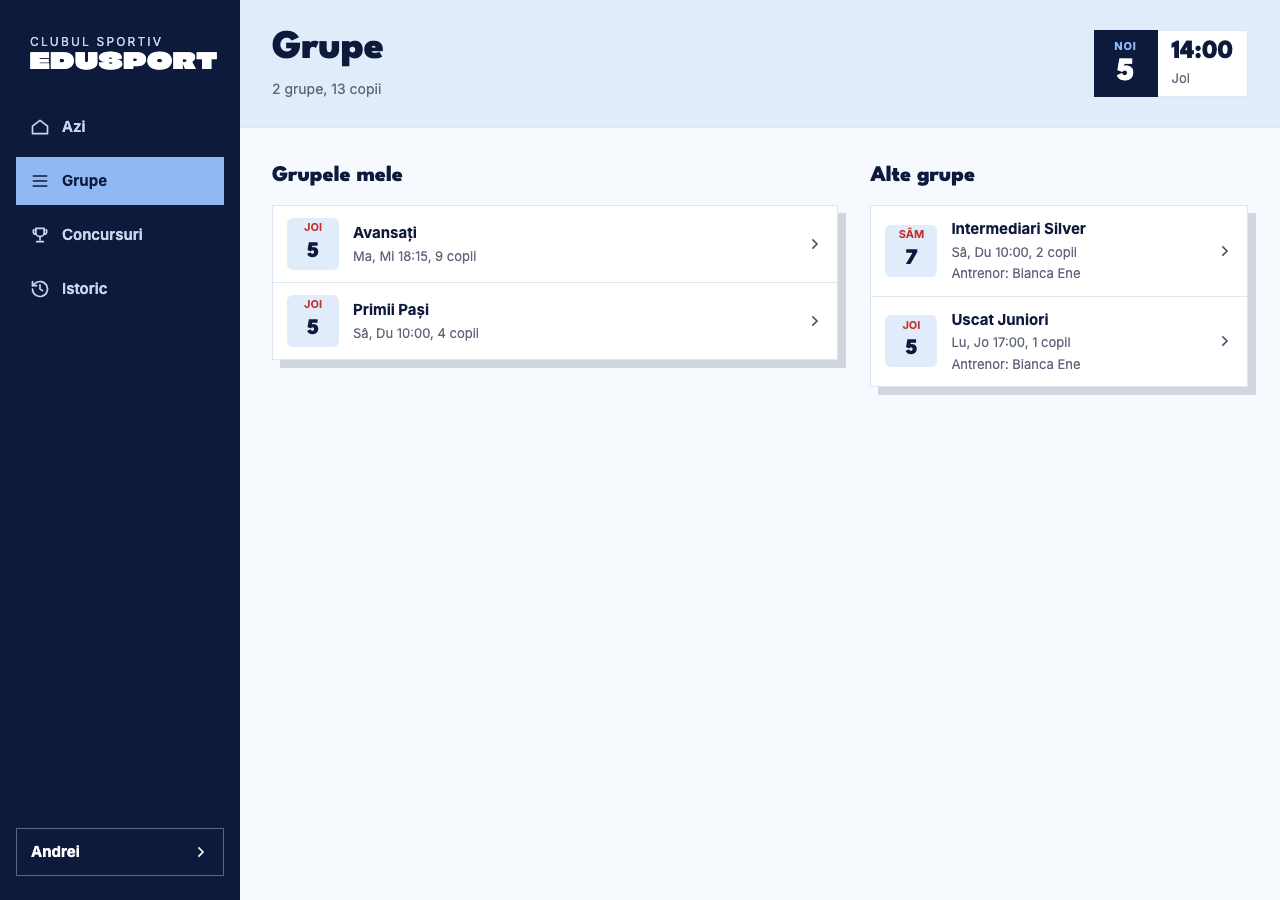
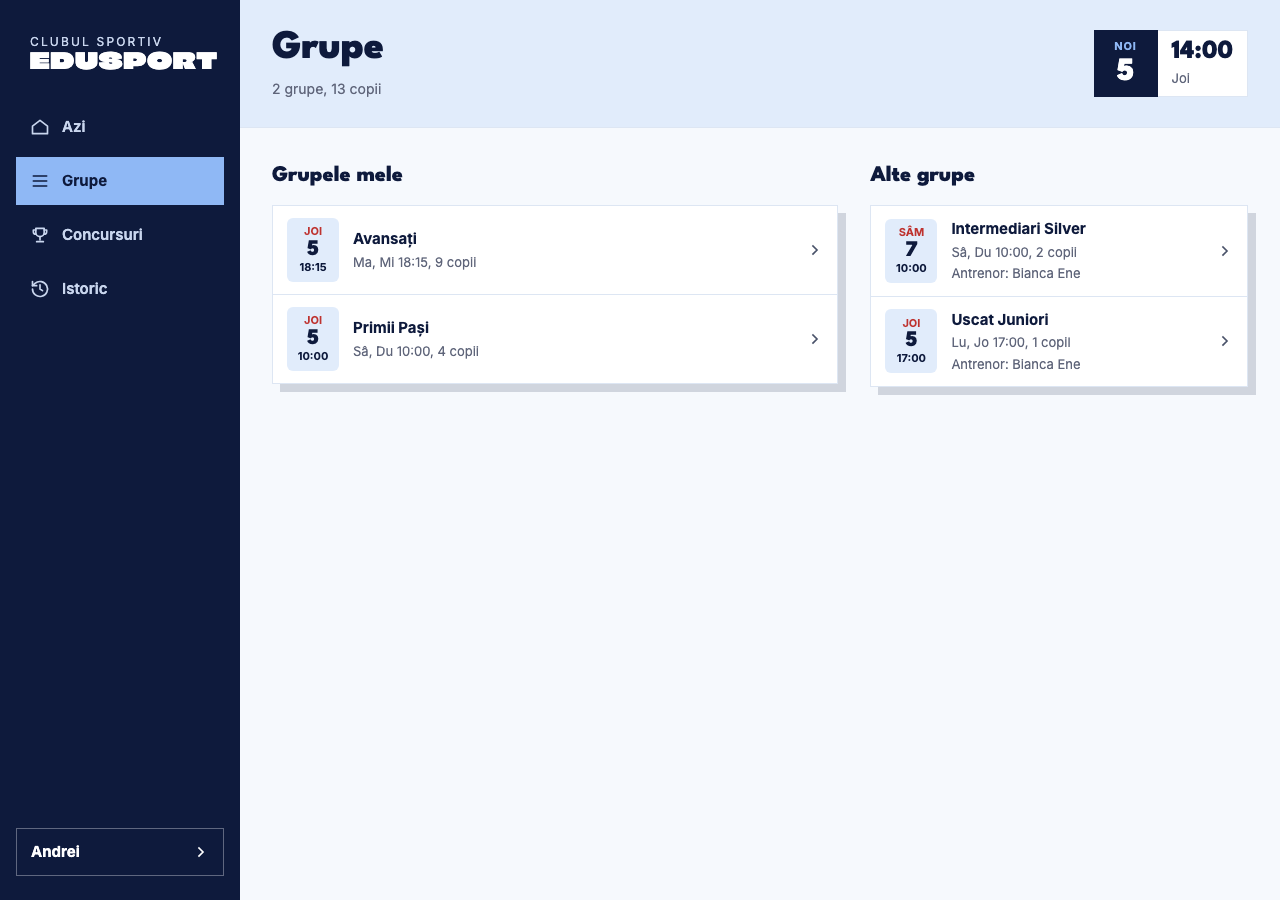
Portal: one date square (weekday, day, hour) in every list, option B

Changed region(s): [[0.2188, 0.2489, 0.7188, 0.4356], [0.6875, 0.2178, 0.7188, 0.3111]]

diff --git a/docs/portal/mockups/screens/coach-canvas-v1/AntrenorPatratB.dc.html b/docs/portal/mockups/screens/coach-canvas-v1/AntrenorPatratB.dc.html
@@ -1,0 +1,42 @@
+<!doctype html>
+<html lang="ro">
+<head>
+<meta charset="utf-8">
+<title>Varianta B: mereu zi + dată + oră</title>
+<script src="./support.js"></script>
+</head>
+<body>
+<x-dc>
+<helmet>
+<link rel="preconnect" href="https://fonts.googleapis.com">
+<link href="https://fonts.googleapis.com/css2?family=League+Spartan:wght@600;700;800&amp;family=Inter:wght@400;500;600;700&amp;display=swap" rel="stylesheet">
+<style>
+body{margin:0;background:#f6f9fd}
+a{color:#0e1a3c;text-decoration:none}a:hover{text-decoration:underline}
+summary{list-style:none}summary::-webkit-details-marker{display:none}
+a:focus-visible,button:focus-visible,summary:focus-visible,input:focus-visible,select:focus-visible{outline:2px solid #4a7bd0;outline-offset:2px}
+button{font:inherit;cursor:pointer}
[1 lines of base64/hex data omitted]
+.brand{display:inline-flex;flex-direction:column;gap:1px;line-height:1;text-decoration:none}
+.brand:hover{text-decoration:none}
+.brand-k{font-family:Inter,system-ui,sans-serif;font-size:12px;letter-spacing:.18em;font-weight:400;color:#495269;line-height:1}
+.brand-w{font-family:'Climate Crisis',sans-serif;font-variation-settings:"YEAR" 1979;font-optical-sizing:auto;font-size:22px;letter-spacing:.05em;line-height:1;color:#0e1a3c}
+.brand.dark .brand-k{color:#c9d6ee}.brand.dark .brand-w{color:#ffffff}
+
+</style>
+</helmet>
+<div class="ph-root" style="width: 390px; min-height: 844px; box-sizing: border-box; background: #f6f9fd; font-family: Inter, system-ui, sans-serif; color: #0e1a3c; display: flex; flex-direction: column">
+<header style="padding: 18px 20px 6px; display: flex; flex-direction: column; gap: 18px"><div style="display: flex; justify-content: space-between; align-items: center; min-height: 44px"><a class="brand" href="Azi.dc.html" aria-label="Clubul Sportiv EduSport"><span class="brand-k">CLUBUL SPORTIV</span><span class="brand-w">EDUSPORT</span></a></div><div style="display: flex; flex-direction: column; gap: 8px"><span style="font-size: 14px; color: #5f657a">Varianta B: mereu zi + dată + oră</span><h1 style="margin: 0; font-family: 'League Spartan', sans-serif; font-weight: 800; font-size: 30px; line-height: 1.05">Pătrățelul de dată</h1></div></header>
+<main style="flex: 1; padding: 22px 20px 28px; display: flex; flex-direction: column; gap: 26px"><div style="display: flex; flex-direction: column; gap: 26px"><div style="display: flex; flex-direction: column; gap: 12px"><div style="display: flex; justify-content: space-between; align-items: baseline; gap: 12px"><h2 style="margin: 0; font-family: 'League Spartan', sans-serif; font-weight: 800; font-size: 22px">Antrenamente azi</h2></div><div style="background: #ffffff; border: 1px solid #dde6f3; box-shadow: 8px 8px 0 rgba(14,26,60,0.16); display: flex; flex-direction: column"><a href="#" style="border-bottom: 1px solid #dde6f3; display: flex; align-items: stretch; min-height: 76px; text-decoration: none; color: #0e1a3c"><span style="flex: 1; min-width: 0; display: flex; gap: 14px; align-items: center; padding: 12px 14px"><span style="width: 56px; height: 64px; background: #e1ecfb; display: flex; flex-direction: column; align-items: center; justify-content: center; flex-shrink: 0; gap: 1px"><span style="font-size: 11px; font-weight: 700; color: #be3330; text-transform: uppercase">Mar</span><span style="font-family: 'League Spartan', sans-serif; font-weight: 800; font-size: 20px; line-height: 1">10</span><span style="font-size: 11px; font-weight: 700">16:00</span></span><span style="display: flex; flex-direction: column; gap: 2px; min-width: 0"><span style="font-weight: 700; font-size: 15px">Inițiere A</span><span style="font-size: 13px; color: #5f657a">grup, 8 prezenți</span></span></span><span style="width: 44px; flex: none; display: flex; align-items: center; justify-content: center; color: #495269"><svg aria-hidden="true" width="16" height="16" viewBox="0 0 24 24" fill="none" stroke="currentColor" stroke-width="2.5" stroke-linecap="square"><path d="M9 6l6 6-6 6"/></svg></span></a><a href="#" style="display: flex; align-items: stretch; min-height: 76px; text-decoration: none; color: #0e1a3c"><span style="flex: 1; min-width: 0; display: flex; gap: 14px; align-items: center; padding: 12px 14px"><span style="width: 56px; height: 64px; background: #e1ecfb; display: flex; flex-direction: column; align-items: center; justify-content: center; flex-shrink: 0; gap: 1px"><span style="font-size: 11px; font-weight: 700; color: #be3330; text-transform: uppercase">Mar</span><span style="font-family: 'League Spartan', sans-serif; font-weight: 800; font-size: 20px; line-height: 1">10</span><span style="font-size: 11px; font-weight: 700">17:30</span></span><span style="display: flex; flex-direction: column; gap: 2px; min-width: 0"><span style="font-weight: 700; font-size: 15px">Intermediari Bronze</span><span style="font-size: 13px; color: #5f657a">grup, 14 copii, AFI Cotroceni</span></span></span><span style="width: 44px; flex: none; display: flex; align-items: center; justify-content: center; color: #495269"><svg aria-hidden="true" width="16" height="16" viewBox="0 0 24 24" fill="none" stroke="currentColor" stroke-width="2.5" stroke-linecap="square"><path d="M9 6l6 6-6 6"/></svg></span></a></div></div><div style="display: flex; flex-direction: column; gap: 12px"><div style="display: flex; justify-content: space-between; align-items: baseline; gap: 12px"><h2 style="margin: 0; font-family: 'League Spartan', sans-serif; font-weight: 800; font-size: 22px">Următorul antrenament</h2></div><div style="background: #ffffff; border: 1px solid #dde6f3; box-shadow: 8px 8px 0 rgba(14,26,60,0.16); display: flex; flex-direction: column"><a href="#" style="display: flex; align-items: stretch; min-height: 76px; text-decoration: none; color: #0e1a3c"><span style="flex: 1; min-width: 0; display: flex; gap: 14px; align-items: center; padding: 12px 14px"><span style="width: 56px; height: 64px; background: #e1ecfb; display: flex; flex-direction: column; align-items: center; justify-content: center; flex-shrink: 0; gap: 1px"><span style="font-size: 11px; font-weight: 700; color: #be3330; text-transform: uppercase">Mie</span><span style="font-family: 'League Spartan', sans-serif; font-weight: 800; font-size: 20px; line-height: 1">11</span><span style="font-size: 11px; font-weight: 700">17:30</span></span><span style="display: flex; flex-direction: column; gap: 2px; min-width: 0"><span style="font-weight: 700; font-size: 15px">Intermediari Bronze</span><span style="font-size: 13px; color: #5f657a">AFI Cotroceni</span></span></span><span style="width: 44px; flex: none; display: flex; align-items: center; justify-content: center; color: #495269"><svg aria-hidden="true" width="16" height="16" viewBox="0 0 24 24" fill="none" stroke="currentColor" stroke-width="2.5" stroke-linecap="square"><path d="M9 6l6 6-6 6"/></svg></span></a></div></div></div></main>
+
+</div>
+</x-dc>
+<script type="text/x-dc" data-dc-script data-props='{"$preview":{"width":390,"height":844}}'>
+class Component extends DCLogic {
+  renderVals() {
+    return {};
+  }
+}
+</script>
+</body>
+</html>

diff --git a/tests/e2e/portal-azi-grupe.spec.ts b/tests/e2e/portal-azi-grupe.spec.ts
@@ -24,13 +24,17 @@ for (const size of SIZES) {
       await expect(stat).toContainText("2 completate");
       const rows = page.getByRole("link").filter({ has: page.locator("[data-status-block]") });
       await expect(rows).toHaveCount(5);
-      const today = rows.filter({ hasNot: page.locator("[data-date-word]") });
+      const today = page.locator("[data-today-list]").getByRole("link").filter({ has: page.locator("[data-status-block]") });
       await expect(today).toHaveCount(4);
+      // Every today row shows weekday, day and hour in its square (not the hour alone).
+      for (let i = 0; i < 4; i++) {
+        await expect(today.nth(i).locator("[data-date-word]")).toHaveText("Joi");
+        await expect(today.nth(i).locator("[data-date-num]")).toHaveText("5");
+        await expect(today.nth(i).locator("[data-date-time]")).toHaveText(["10:00", "15:00", "17:00", "18:15"][i]);
+      }
       await expect(today.nth(0)).toContainText("Primii Pași");
-      await expect(today.nth(0)).toContainText("10:00");
       await expect(today.nth(0).locator("[data-date-num]")).toHaveCSS("color", "rgb(151, 155, 165)");
       await expect(today.nth(1)).toContainText("Matei Radu");
-      await expect(today.nth(1)).toContainText("15:00");
       await expect(today.nth(1).locator("[data-individual-tag]")).toHaveCSS("background-color", "rgb(17, 17, 17)");
       await expect(today.nth(1)).toContainText("50 min");
       await expect(today.nth(1).locator("[data-status-block]")).toHaveAttribute("aria-label", "Individual, completat");
@@ -38,7 +42,6 @@ for (const size of SIZES) {
       await expect(today.nth(2)).toContainText("Ana Stoica");
       await expect(today.nth(2).locator("[data-status-block]")).toHaveAttribute("aria-label", "Individual, necompletat");
       await expect(today.nth(3)).toContainText("Avansați");
-      await expect(today.nth(3)).toContainText("18:15");
       await expect(today.nth(3)).toContainText("grup, 9 copii, AFI Cotroceni");
       await expect(today.nth(3)).toHaveAttribute("href", /\/prezenta\?id=s-today$/);
       const done = today.nth(3).locator("[data-status-block]");
@@ -50,13 +53,20 @@ for (const size of SIZES) {
       await expect(today.nth(0)).toHaveAttribute("href", /\/prezenta\?occurrence=occ%3Agprimii%3A/);
       await expect(page.getByRole("link", { name: "Calendar ›" })).toHaveAttribute("href", "/calendar");
       await expect(page.getByRole("heading", { name: "Prezență de completat" })).toBeVisible();
-      const past = rows.filter({ has: page.locator("[data-date-word]") });
+      const past = page.getByRole("heading", { name: "Prezență de completat" }).locator("xpath=../following-sibling::*[1]//a");
       await expect(past).toHaveCount(1);
       await expect(past).toContainText("Avansați");
       await expect(past.locator("[data-date-word]")).toHaveText("Vin");
       await expect(past.locator("[data-date-word]")).toHaveCSS("color", "rgb(190, 51, 48)");
       await expect(past.locator("[data-date-num]")).toHaveText("30");
-      await expect(past).toContainText("grup, 18:15");
+      await expect(past.locator("[data-date-time]")).toHaveText("18:15");
+      await expect(past).toContainText("grup, ");
+      await expect(past.locator("[data-date-block]")).toHaveCount(1);
+      // A today row and a future or past row share one square size.
+      const sq = async(l: typeof past) => (await l.locator("[data-date-block]").first().boundingBox())!;
+      expect((await sq(today.nth(0))).height).toBe((await sq(past)).height);
+      expect((await sq(today.nth(0))).width).toBe((await sq(past)).width);
+      expect((await sq(past)).height).toBe(64);
       await shot(page, info, "azi");
     });
 
@@ -98,7 +108,7 @@ test.describe("Azi layout", () => {
     await expect(button).toHaveCount(1);
     const box = await button.boundingBox();
     expect(box!.width).toBeGreaterThan(390 - 2 * 20 - 2);
-    const card = await page.getByRole("link", { name: /^18:15 Avansați/ }).first().boundingBox();
+    const card = await page.locator("[data-today-list]").getByRole("link", { name: /18:15.*Avansați/ }).boundingBox();
     expect(box!.y).toBeGreaterThan(card!.y);
     const past = await page.getByRole("heading", { name: "Prezență de completat" }).boundingBox();
     expect(past!.y).toBeGreaterThan(box!.y);
@@ -328,8 +338,9 @@ test.describe("Azi week column", () => {
     const nextRow = page.getByRole("heading", { name: "Următorul antrenament" }).locator("xpath=../following-sibling::*[1]//a");
     // 14:00 Bucharest: the 15:00 lesson of Matei Radu is the first one after now.
     await expect(nextRow).toContainText("Matei Radu");
-    await expect(nextRow).toContainText("15:00");
+    await expect(nextRow.locator("[data-date-time]")).toHaveText("15:00");
     await expect(nextRow.locator("[data-date-word]")).toHaveText("Joi");
+    await expect(nextRow.locator("[data-date-num]")).toHaveText("5");
     await expect(nextRow).toHaveAttribute("href", "/lectie/ldone");
     await expect(page.getByText("Ședințe de grup", { exact: true }).locator("xpath=following-sibling::*[1]")).toHaveText("3 ținute, 3 rămase");
     await expect(page.getByText("Lecții individuale", { exact: true }).locator("xpath=following-sibling::*[1]")).toHaveText(/^\d+ ținut(ă|e), \d+ rămas(ă|e)$/);
@@ -374,7 +385,7 @@ test.describe("Azi week column", () => {
     await page.goto("/");
     const row = page.getByRole("link", { name: /Ana Stoica/ });
     await expect(row).toHaveAttribute("href", "/lectie/l9");
-    await expect(row).toContainText("09:00");
+    await expect(row.locator("[data-date-time]")).toHaveText("09:00");
     await expect(row.locator("[data-date-word]")).toHaveText("Vin");
   });
 });

diff --git a/src/app/(antrenor)/antrenor/(app)/page.tsx b/src/app/(antrenor)/antrenor/(app)/page.tsx
@@ -5,6 +5,7 @@ import { useRouter, useSearchParams } from "next/navigation";
 import Button from "@/components/ui/button";
 import { AZI, LIST } from "@/lib/portal/copy";
 import { weekdayShort } from "@/lib/portal/format";
+import { roCount } from "@/lib/ro-plural";
 import type { CoachClassRow, CoachToday } from "@/lib/portal/api-types";
 import { LoadError } from "@/app/_portal/ui/LoadError";
 import { DateBlock } from "@/app/_portal/ui/DateBlock";
@@ -28,7 +29,7 @@ const ROW1 = "portal:min-h-(--portal-tap) portal:items-center";
 
 function groupRow(c: CoachClassRow): SessionRowData {
   return {
-    kind: "grup", startTime: c.startTime, title: c.groupName, children: c.children, location: c.location, durationMin: null, done: c.done,
+    kind: "grup", date: c.date, startTime: c.startTime, title: c.groupName, children: c.children, location: c.location, durationMin: null, done: c.done,
     sessionId: c.sessionId, occurrenceKey: c.occurrenceKey, lessonId: null,
   };
 }
@@ -57,7 +58,7 @@ export default function AziPage() {
   const rows: SessionRowData[] = [
     ...data.groups.map(groupRow),
     ...data.lessons.map((l): SessionRowData => ({
-      kind: "individual", startTime: l.startTime, title: l.athleteName, children: null, location: null, durationMin: l.durationMin, done: l.done,
+      kind: "individual", date: data.today, startTime: l.startTime, title: l.athleteName, children: null, location: null, durationMin: l.durationMin, done: l.done,
       sessionId: null, occurrenceKey: null, lessonId: l.lessonId,
     })),
   ].sort((a, b) => a.startTime.localeCompare(b.startTime));
@@ -85,9 +86,9 @@ export default function AziPage() {
             <ListRow
               key={c.occurrenceKey ?? c.groupId + c.date}
               href={presenceHref(c)}
-              lead={<DateBlock word={weekdayShort(c.date)} big={String(Number(c.date.slice(8)))} />}
+              lead={<DateBlock word={weekdayShort(c.date)} day={String(Number(c.date.slice(8)))} time={c.startTime} />}
               title={c.groupName}
-              sub={AZI.todoLine(c.startTime)}
+              sub={AZI.groupSub(roCount(c.children, "copil", "copii"), c.location)}
               end={<StatusBlock kind="Grup" done={false} />}
             />
           ))}
@@ -101,9 +102,9 @@ export default function AziPage() {
       <ListCard>
         <ListRow
           href={next.kind === "individual" ? `/lectie/${encodeURIComponent(next.lessonId ?? "")}` : presenceHref({ sessionId: null, occurrenceKey: next.occurrenceKey })}
-          lead={<DateBlock word={weekdayShort(next.date)} big={String(Number(next.date.slice(8)))} />}
+          lead={<DateBlock word={weekdayShort(next.date)} day={String(Number(next.date.slice(8)))} time={next.startTime} />}
           title={next.title}
-          sub={AZI.nextSub(next.startTime, next.location)}
+          sub={next.location}
         />
       </ListCard>
     </Section>

diff --git a/src/app/(antrenor)/antrenor/_ui/SessionRow.tsx b/src/app/(antrenor)/antrenor/_ui/SessionRow.tsx
@@ -1,6 +1,7 @@
 import { AZI, CALENDAR } from "@/lib/portal/copy";
 import { withFrom, type PresenceFrom } from "@/lib/portal/presence";
 import { roCount } from "@/lib/ro-plural";
+import { weekdayShort } from "@/lib/portal/format";
 import { DateBlock } from "@/app/_portal/ui/DateBlock";
 import { IndividualTag } from "@/app/_portal/ui/IndividualTag";
 import { ListRow } from "@/app/_portal/ui/ListRow";
@@ -9,6 +10,8 @@ import { StatusBlock } from "@/app/_portal/ui/StatusBlock";
 /** What a today or calendar row needs; both answers map onto it. */
 export type SessionRowData = {
   kind: "grup" | "individual";
+  /** YYYY-MM-DD of the row, for its date square. */
+  date: string;
   startTime: string;
   /** Group name, or the athlete's name for a lesson. */
   title: string;
@@ -28,7 +31,7 @@ export const presenceHref = (r: { sessionId: string | null; occurrenceKey: strin
 const hrefOf = (r: SessionRowData, from: PresenceFrom | null): string =>
   r.kind === "individual" ? `/lectie/${encodeURIComponent(r.lessonId ?? "")}` : presenceHref(r, from);
 
-/** One row of the today and day lists: time block, title, sub line, and the Grup or Individual status block. `now` is HH:mm; earlier rows are dimmed. */
+/** One row of the today and day lists: date square (weekday, day, hour), title, sub line, and the Grup or Individual status block. `now` is HH:mm; earlier rows are dimmed. */
 export function SessionRow({ row, now, from = null }: { row: SessionRowData; now?: string; from?: PresenceFrom | null }) {
   const cancelled = row.cancelled === true;
   const dim = cancelled || (now !== undefined && row.startTime < now);
@@ -44,7 +47,7 @@ export function SessionRow({ row, now, from = null }: { row: SessionRowData; now
   return (
     <ListRow
       href={cancelled ? undefined : hrefOf(row, from)}
-      lead={<DateBlock big={row.startTime} dim={dim} />}
+      lead={<DateBlock word={weekdayShort(row.date)} day={String(Number(row.date.slice(8)))} time={row.startTime} dim={dim} />}
       title={row.title}
       sub={cancelled ? CALENDAR.legendCancelled : sub}
       dim={dim}

diff --git a/tests/e2e/portal-program-read.spec.ts b/tests/e2e/portal-program-read.spec.ts
@@ -48,11 +48,11 @@ for (const size of SIZES) {
       await expect(dateRow(page, "Mar", "10")).toContainText("Marți, 18:15");
       await expect(dateRow(page, "Mar", "10")).toContainText("60 min");
       const dates = page.getByRole("heading", { name: "Următoarele date" }).locator("xpath=../..");
-      const cancelled = dates.locator("[data-date-block]").filter({ hasText: /^Mie\s*11$/i }).locator("xpath=../..");
+      const cancelled = dates.locator("[data-date-block]").filter({ hasText: /^Mie\s*11(\s*\d\d:\d\d)?$/i }).locator("xpath=../..");
       await expect(cancelled).toContainText("Miercuri, 18:15");
       await expect(cancelled.locator("[data-end-block]")).toHaveText("Anulată");
       await expect(cancelled.locator("[data-end-block]")).toHaveCSS("background-color", ICE_LIGHT);
-      const moved = dates.locator("[data-date-block]").filter({ hasText: /^Joi\s*19$/i }).locator("xpath=../..");
+      const moved = dates.locator("[data-date-block]").filter({ hasText: /^Joi\s*19(\s*\d\d:\d\d)?$/i }).locator("xpath=../..");
       await expect(moved).toContainText("Joi, 18:15");
       await expect(moved).toContainText("mutată din marți, 17 noiembrie");
       await expect(moved.locator("[data-end-block]")).toHaveText("Mutată");
@@ -62,7 +62,7 @@ for (const size of SIZES) {
       await expect(footer).toContainText("Se arată următoarele 4 date");
       await expect(footer.getByRole("link", { name: "Vezi toate ›" })).toHaveAttribute("href", "/calendar");
       // No row before today, and no other red text than the date words.
-      await expect(page.locator("[data-date-block]").filter({ hasText: /^Mie\s*4$/i })).toHaveCount(0);
+      await expect(page.locator("[data-date-block]").filter({ hasText: /^Mie\s*4(\s*\d\d:\d\d)?$/i })).toHaveCount(0);
       const reds = await page.locator("main *").evaluateAll((els, red) => els
         .filter((el) => el.children.length === 0 && (el.textContent ?? "").trim() !== "" && getComputedStyle(el).color === red && !el.hasAttribute("data-date-word"))
         .map((el) => el.textContent), RED);

diff --git a/src/app/_portal/ui/DateBlock.tsx b/src/app/_portal/ui/DateBlock.tsx
@@ -17,29 +17,25 @@ export function EmptyDateBlock({ label }: { label: string }) {
   );
 }
 
-/** Date or time block: ice square, 6px radius (a named round exception), optional red word above the number. */
-export function DateBlock({ word, big, dim, tip }: { word?: string; big: string; dim?: boolean; tip?: string }) {
+/** Date block, one size everywhere: red weekday word, day number and (when the row has one) the hour, stacked in an ice square with a 6px radius (a named round exception). */
+export function DateBlock({ word, day, time, dim, tip }: { word: string; day: string; time?: string; dim?: boolean; tip?: string }) {
   const block = (
     <span
       data-date-block
       tabIndex={tip ? 0 : undefined}
       className="flex h-(--portal-dateblock-h) w-(--portal-dateblock-w) shrink-0 flex-col items-center justify-center rounded-(--portal-dateblock-radius) bg-ice-light outline-none focus-visible:outline-2 focus-visible:outline-offset-(--focus-offset) focus-visible:outline-focus"
     >
-      {word && (
-        <span data-date-word className="text-(length:--portal-dateblock-word) font-bold uppercase text-accent">
-          {word}
+      <span data-date-word className="text-(length:--portal-dateblock-word) font-bold uppercase leading-tight text-accent">
+        {word}
+      </span>
+      <span data-date-num className={cn("font-display text-(length:--portal-dateblock-num) font-extrabold leading-none", dim && "text-muted-on-dark")}>
+        {day}
+      </span>
+      {time && (
+        <span data-date-time className={cn("text-(length:--portal-dateblock-time) font-bold leading-tight", dim && "text-muted-on-dark")}>
+          {time}
         </span>
       )}
-      <span
-        data-date-num
-        className={cn(
-          "font-display font-extrabold leading-none",
-          word ? "text-(length:--portal-dateblock-num)" : "text-(length:--portal-dateblock-num-solo)",
-          dim && "text-muted-on-dark",
-        )}
-      >
-        {big}
-      </span>
     </span>
   );
   if (!tip) return block;

diff --git a/src/app/(antrenor)/antrenor/kit-preview/KitPreview.tsx b/src/app/(antrenor)/antrenor/kit-preview/KitPreview.tsx
@@ -194,27 +194,27 @@ export function KitPreview() {
               <ListCard>
                 <ListRow
                   href="/kit-preview#r1"
-                  lead={<DateBlock word="Mar" big="10" />}
+                  lead={<DateBlock word="Mar" day="10" time="16:00" />}
                   title="Intermediari Bronze"
                   sub="grup, 14 copii, AFI Cotroceni"
                 />
                 <ListRow
                   href="/kit-preview#r2"
-                  lead={<DateBlock big="17:30" />}
+                  lead={<DateBlock word="Mar" day="10" time="17:30" />}
                   title="Inițiere A"
                   sub="grup, 8 prezenți"
                   end={<EndBlock kind="todo">Fă prezența</EndBlock>}
                 />
                 <ListRow
                   href="/kit-preview#r3"
-                  lead={<DateBlock big="18:30" />}
+                  lead={<DateBlock word="Mar" day="10" time="18:30" />}
                   title="Maria Ionescu"
                   sub={<><IndividualTag />45 min</>}
                   end={<StatusBlock kind="Individual" done />}
                 />
                 <ListRow
                   href="/kit-preview#r4"
-                  lead={<DateBlock big="15:00" dim />}
+                  lead={<DateBlock word="Mar" day="10" time="15:00" dim />}
                   title="Luca Stan"
                   sub="grup, 8 prezenți"
                   dim

diff --git a/tests/e2e/portal-kit.spec.ts b/tests/e2e/portal-kit.spec.ts
@@ -126,8 +126,12 @@ for (const size of [{ width: 390, height: 844 }, { width: 1280, height: 900 }]) 
       expect((await css(rows.first().locator("> span").last(), ["width"])).width).toBe("44px");
 
       const block = list.locator("[data-date-block]").first();
-      expect(await css(block, ["width", "height", "border-radius", "background-color"])).toEqual({ width: "52px", height: "52px", "border-radius": "6px", "background-color": ICE_LIGHT });
+      expect(await css(block, ["width", "height", "border-radius", "background-color"])).toEqual({ width: "52px", height: "64px", "border-radius": "6px", "background-color": ICE_LIGHT });
       expect(await css(block.locator("[data-date-word]"), ["color", "font-size", "text-transform"])).toEqual({ color: RED, "font-size": "11px", "text-transform": "uppercase" });
+      expect(await css(block.locator("[data-date-time]"), ["font-size", "font-weight"])).toEqual({ "font-size": "11px", "font-weight": "700" });
+      await expect(block.locator("[data-date-time]")).toHaveText("16:00");
+      // Every square in the list is the same size.
+      for (const b of await list.locator("[data-date-block]").all()) expect((await b.boundingBox())!.height).toBe(64);
       const num = await css(block.locator("[data-date-num]"), ["font-size", "font-family"]);
       expect(num["font-size"]).toBe("22px");
       expect(num["font-family"]).toContain("League Spartan");

diff --git a/tests/e2e/portal-program-write.spec.ts b/tests/e2e/portal-program-write.spec.ts
@@ -8,7 +8,7 @@ const SIZES = [{ width: 390, height: 844 }, { width: 1280, height: 900 }];
 const calls = async(method: string, tail: RegExp) => (await mockLog()).filter((c) => c.method === method && tail.test(c.path));
 const dateRow = (page: Page, word: string, day: string): Locator => page.getByRole("button", { name: new RegExp(`^${word}\\s*${day}\\s`, "i") });
 const dialog = (page: Page): Locator => page.getByRole("dialog");
-const block = (page: Page, word: string, day: string): Locator => page.locator("[data-date-block]").filter({ hasText: new RegExp(`^${word}\\s*${day}$`, "i") });
+const block = (page: Page, word: string, day: string): Locator => page.locator("[data-date-block]").filter({ hasText: new RegExp(`^${word}\\s*${day}(\\s*\\d\\d:\\d\\d)?$`, "i") });
 
 async function typeDate(page: Page, label: string, ddmmyyyy: string): Promise<void> {
   await dialog(page).getByRole("group", { name: label }).getByRole("spinbutton").first().click();

diff --git a/src/app/_portal/ui/CompetitionCard.tsx b/src/app/_portal/ui/CompetitionCard.tsx
@@ -28,7 +28,7 @@ export function CompetitionCard({
     <details open={defaultOpen} className="border-card border-card-line bg-surface-raised shadow-retro">
       <summary data-more-row className="flex min-h-(--portal-row-min-h) cursor-pointer list-none items-stretch outline-none focus-visible:outline-2 focus-visible:-outline-offset-2 focus-visible:outline-focus [&::-webkit-details-marker]:hidden">
         <span className="flex min-w-0 flex-1 items-center gap-(--portal-row-gap) px-(--portal-row-pad-x) py-(--portal-row-pad-y)">
-          <DateBlock word={month} big={day} />
+          <DateBlock word={month} day={day} />
           <span className="flex flex-col gap-0.5">
             <span className="text-(length:--portal-row-title) font-bold">{name}</span>
             <span className="text-(length:--portal-row-sub) text-muted">{place}</span>

diff --git a/src/styles/portal-theme.css b/src/styles/portal-theme.css
@@ -89,11 +89,11 @@
   --portal-row-sub: 13px;          /* 5 row sub line */
   --portal-trail-w: 44px;          /* 9 chevron column */
   --portal-dateblock-w: 52px;      /* 10 date and time block */
-  --portal-dateblock-h: 52px;      /* 10 date and time block */
+  --portal-dateblock-h: 64px;      /* 10 date block, three lines: word, day, hour */
   --portal-dateblock-radius: 6px;  /* 10 named round exception */
   --portal-dateblock-num: 22px;    /* 10 date number */
-  --portal-dateblock-num-solo: 17px; /* 10 date number alone */
   --portal-dateblock-word: 11px;   /* 10 date word */
+  --portal-dateblock-time: 11px;   /* 10 date hour */
   --portal-endblock-w: 96px;       /* 11 end block, status and session band */
   --portal-typeblock-w: 64px;      /* layout status block */
   --portal-typeblock-icon: 26px;   /* layout status block icon */

diff --git a/src/app/(antrenor)/antrenor/(app)/grupe/[id]/_program/RulesCard.tsx b/src/app/(antrenor)/antrenor/(app)/grupe/[id]/_program/RulesCard.tsx
@@ -22,7 +22,7 @@ export function RulesCard({ rule, later, editable, onChange, onEnd }: RulesCardP
   const freq = rule.freq === "monthly" && rule.weekOfMonth ? PROGRAM.monthlyRule(TRAINING.weekWord[rule.weekOfMonth], weekday) : PROGRAM.freqWord[rule.freq];
   return (
     <ListRow
-      lead={next ? <DateBlock word={weekdayShort(next)} big={String(Number(next.slice(8)))} /> : <EmptyDateBlock label={AZI.none} />}
+      lead={next ? <DateBlock word={weekdayShort(next)} day={String(Number(next.slice(8)))} time={rule.startTime} /> : <EmptyDateBlock label={AZI.none} />}
       title={PROGRAM.ruleTitle(capitalize(weekday), rule.startTime)}
       sub={PROGRAM.ruleSub(rule.durationMin, freq, later ? shortDate(rule.from) : dayMonthLong(rule.from), rule.untilSeasonEnd ? null : dayMonthLong(rule.to))}
       end={null}
